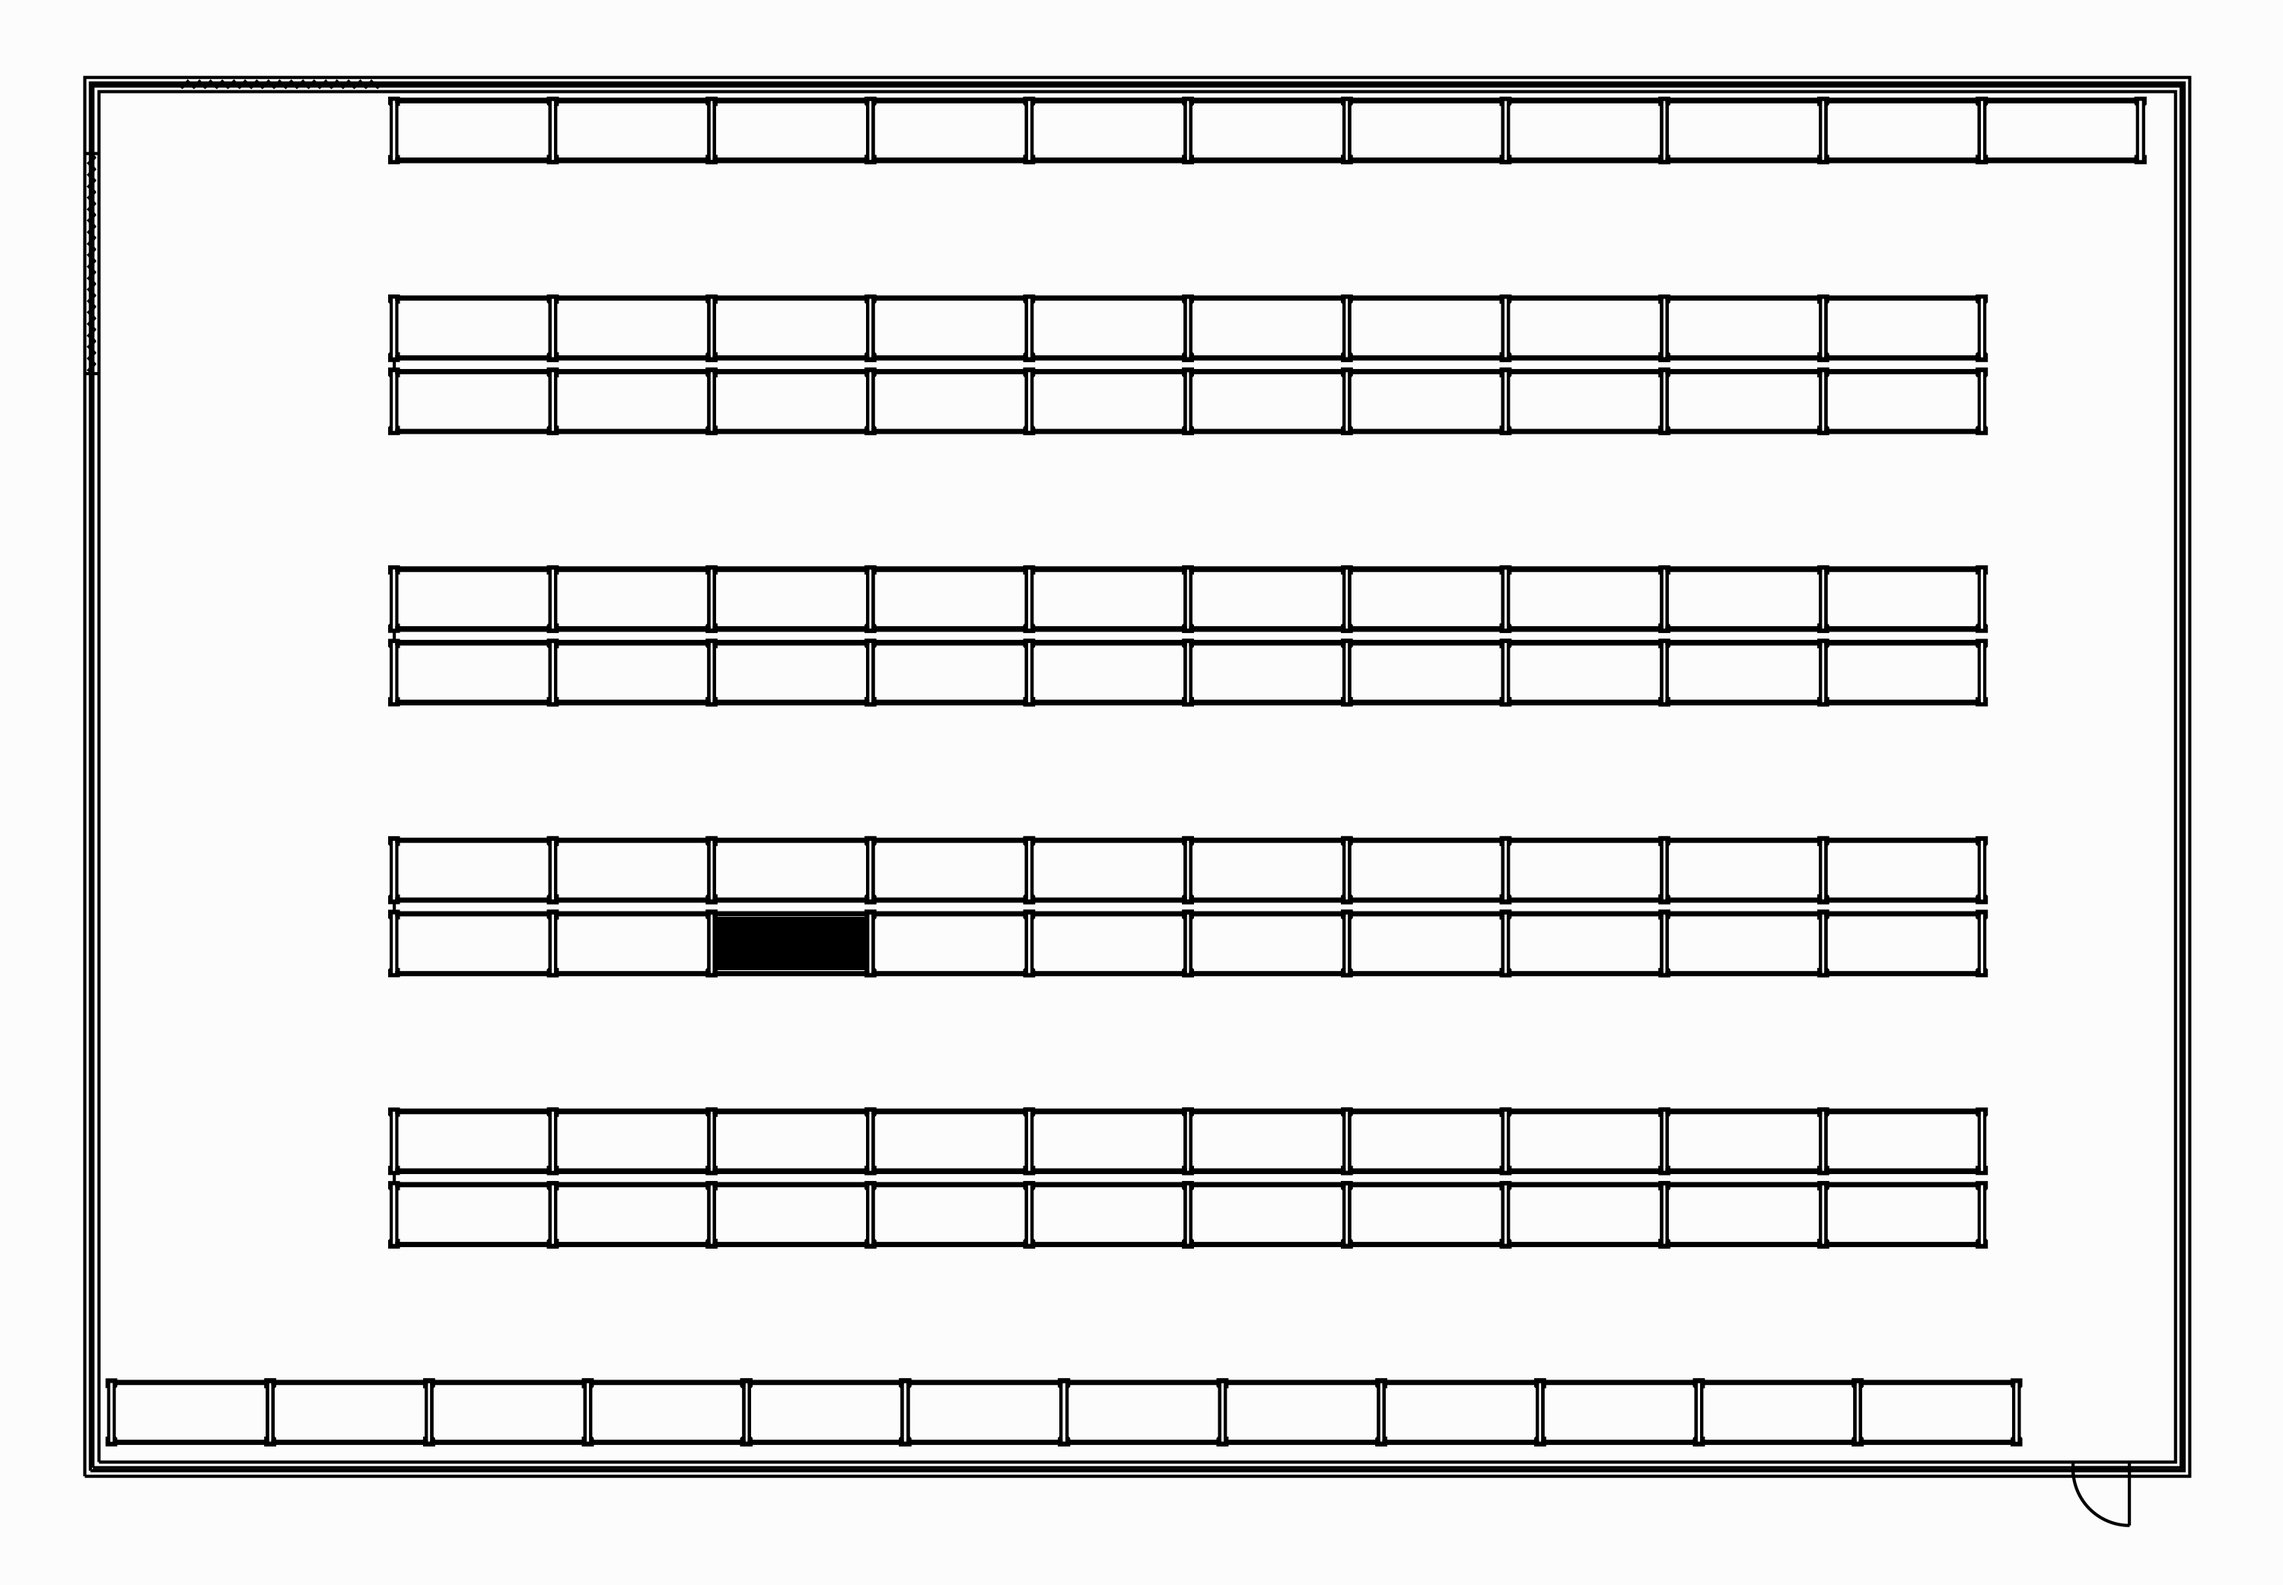
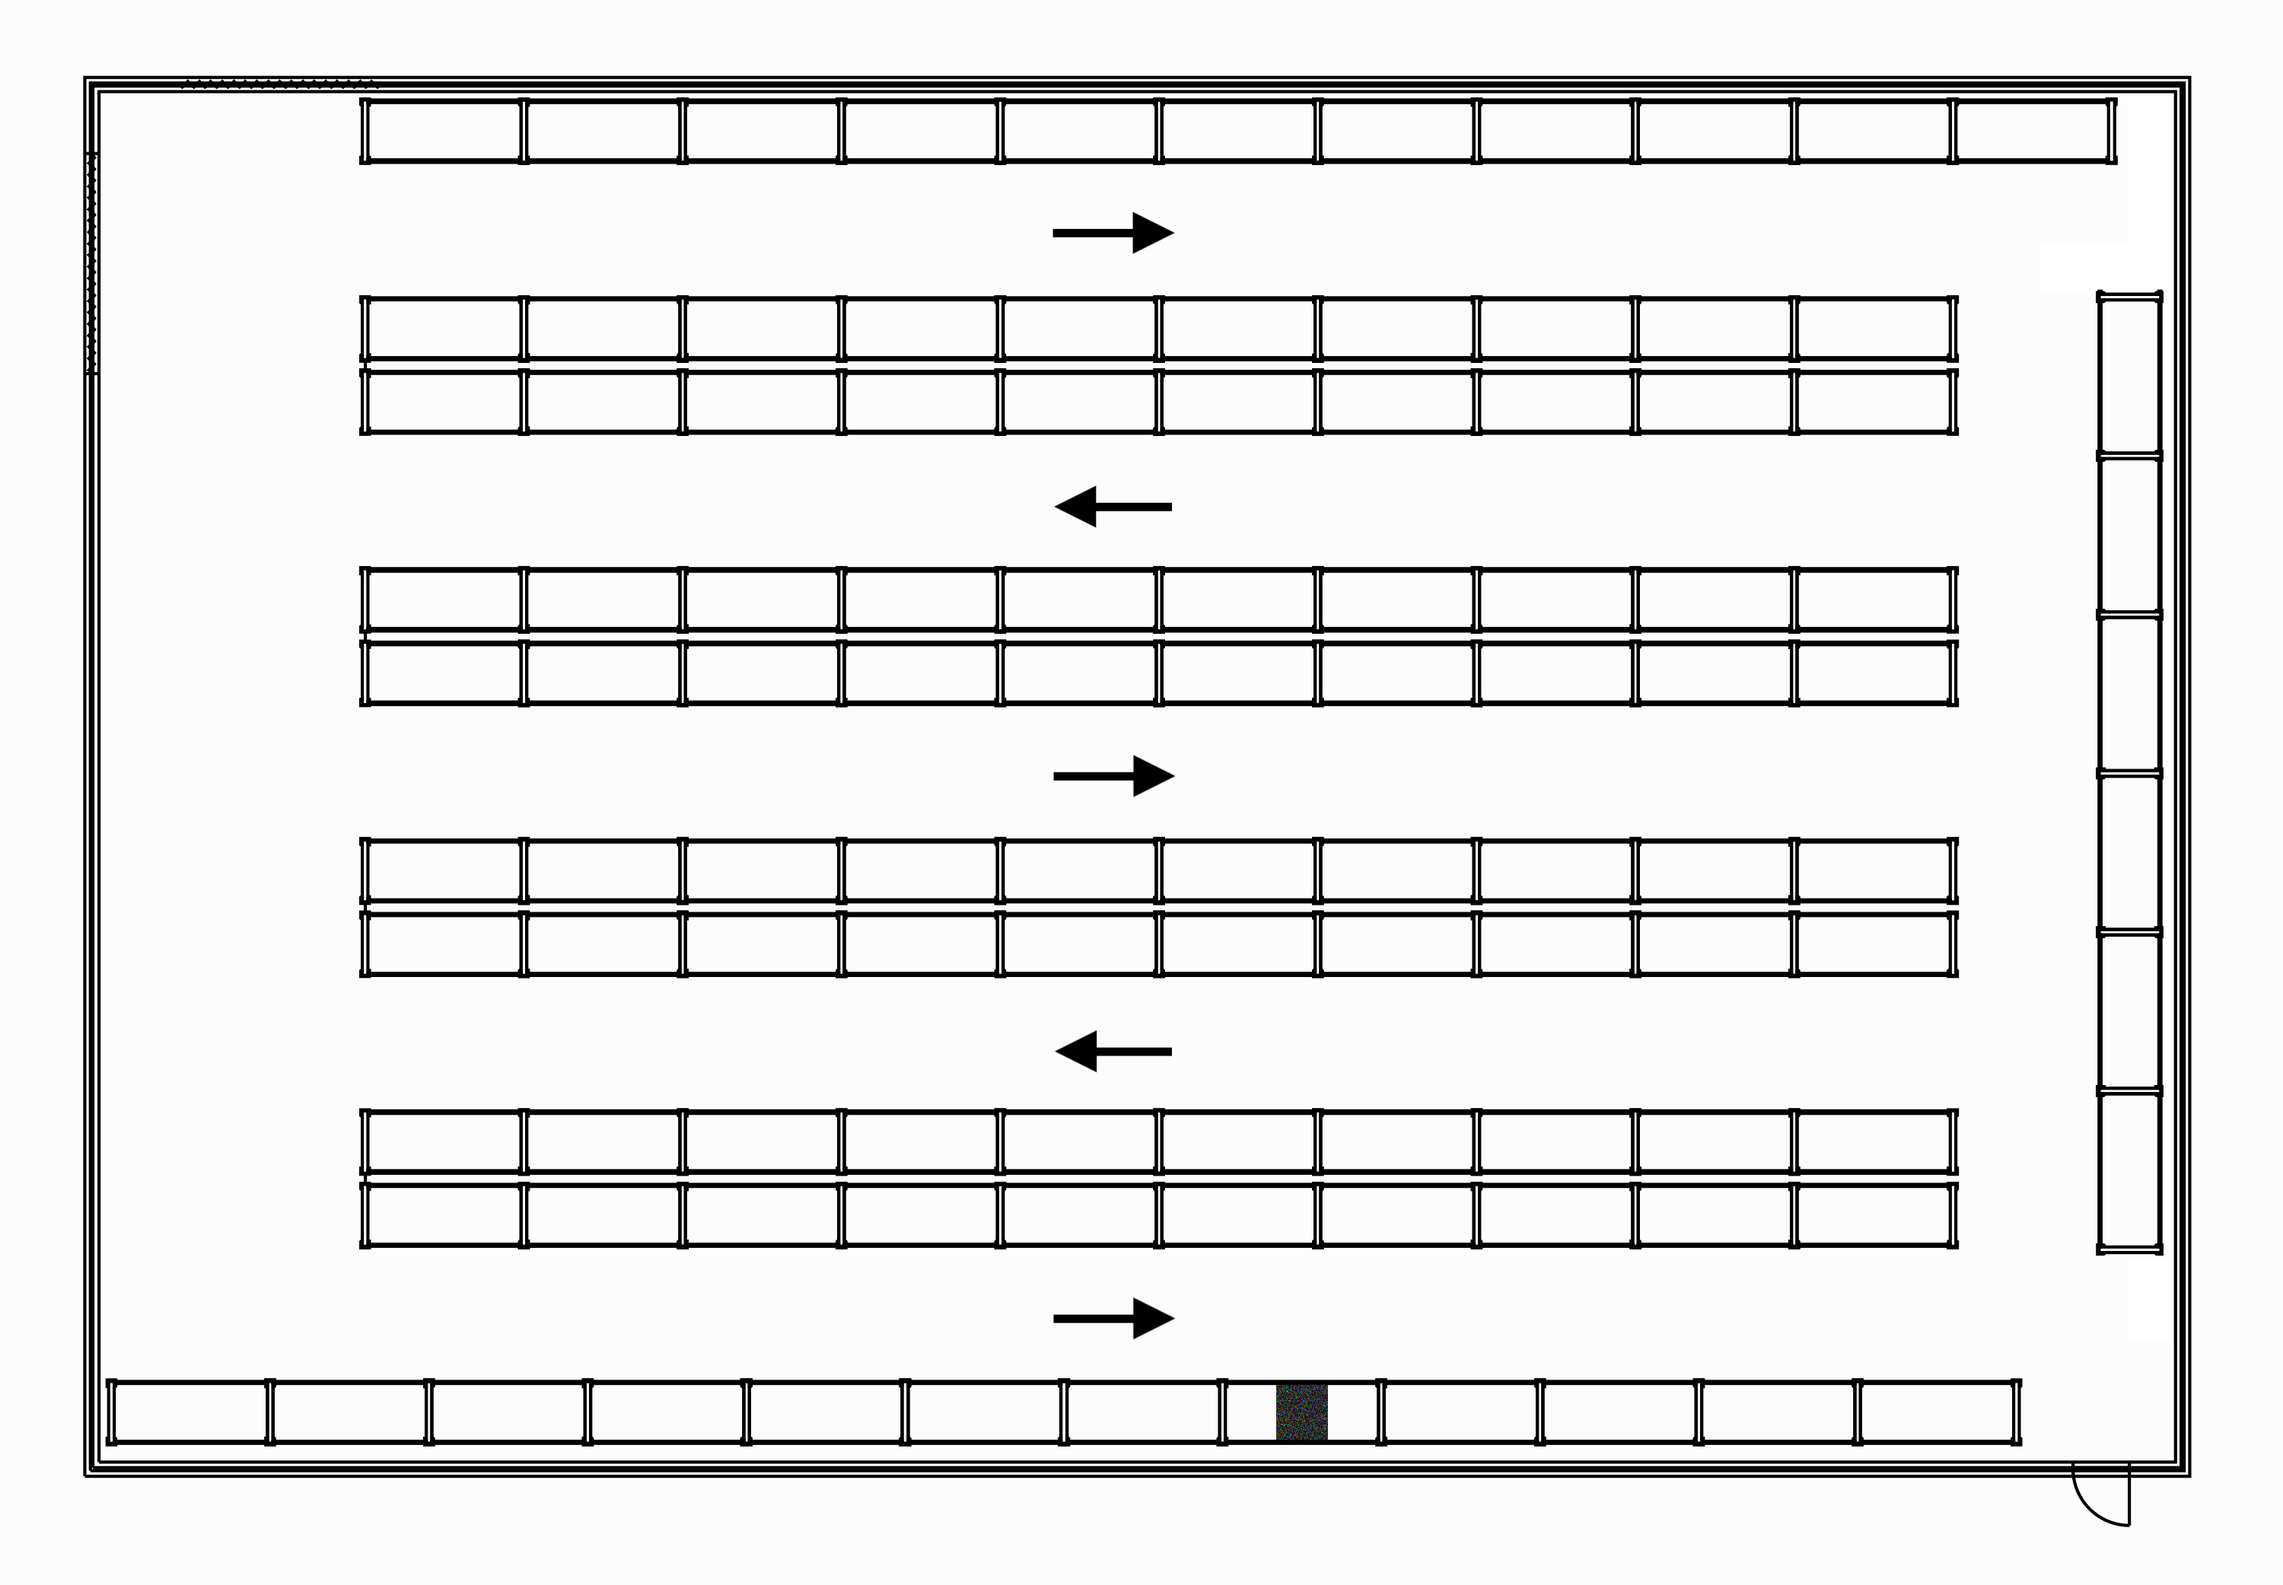
more changes

diff --git a/app.js b/app.js
@@ -1,10 +1,11 @@
 const express = require('express');
 const mysql = require('mysql');
 const sharp = require ('sharp');
+const fs = require("fs");
 
 //Variables used for image generation
-var filePath = '/Users/wgcsa/PROJECT Bin Number Locator/images';
-var warehouseImage = '/WarehouseLayout_Base.png';
+var filePath = '/Users/Sam/Documents/JR Projects/PROJECT-Bin-Number-Locator/images';
+var warehouseImage = '/WarehouseLayout_New.png';
 var marker = '/fill.png';
 var combined = '/combined.png';
 
@@ -12,7 +13,7 @@ var combined = '/combined.png';
 const db = mysql.createConnection({
     host     : "localhost",
     user     : "root",
-    password : "Password",
+    password : "JRPassword1!",
     database : "warehousebins"
 });
 
@@ -25,6 +26,8 @@ db.connect(function(err) {
 //Create local environment for testing at port 3000
 const port = process.env.PORT || 3000
 const app = express();
+
+app.enable('trust proxy');
 
 //Receive web request and validate
 app.get('/warehouse', function(req, res) {
@@ -44,30 +47,45 @@ app.get('/warehouse', function(req, res) {
         }
         else 
         { 
-            //Asynchronously begin image generation
+            //create buffer of black marker
+            const blackPng = sharp({
+                create: {
+                    width: 68,
+                    height: 72,
+                    channels: 3,
+                    //use below for solid fill
+                    //background: { r: 0, g: 0, b: 0 }
+                    //
+                    //use below for blurred fill
+                    noise: {
+                        type: 'gaussian',
+                        mean: 40,
+                        sigma: 50
+                    }
+                }
+            }).png()
+            .toBuffer();
+            
+            blackPng.then((data) => {
             (async () => {
                 const processed = sharp(filePath + warehouseImage).composite([
                     { 
+                        input: data,
                         //Use data from MySQL to place the marker in the correct spot and generate new image
-                        input: filePath + marker,
                         left: result[0].bin_x_coord, top: result[0].bin_y_coord
                     }
-                ]);
-                //Ensure new image is saved before returning result to user
-                await processed.toFile(filePath + combined).then(() => {
-                    //Set http header for png and send to user
+                ]).png();
+                await processed.toBuffer().then((text) => {
                     res.setHeader('content-type', 'image/png');
-                    res.sendFile(filePath + combined, function (err) 
-                    {
-                        if (err) throw err;
-                        console.log('image sent');
-                        console.log(result);
-                    });
+                    res.send(text)
+                    console.log("success");
                 });
             })();
-        }
+        });
+        };
     });
 });
+
 
 app.listen(port, () => {
     console.log('Server started on port 3000');
